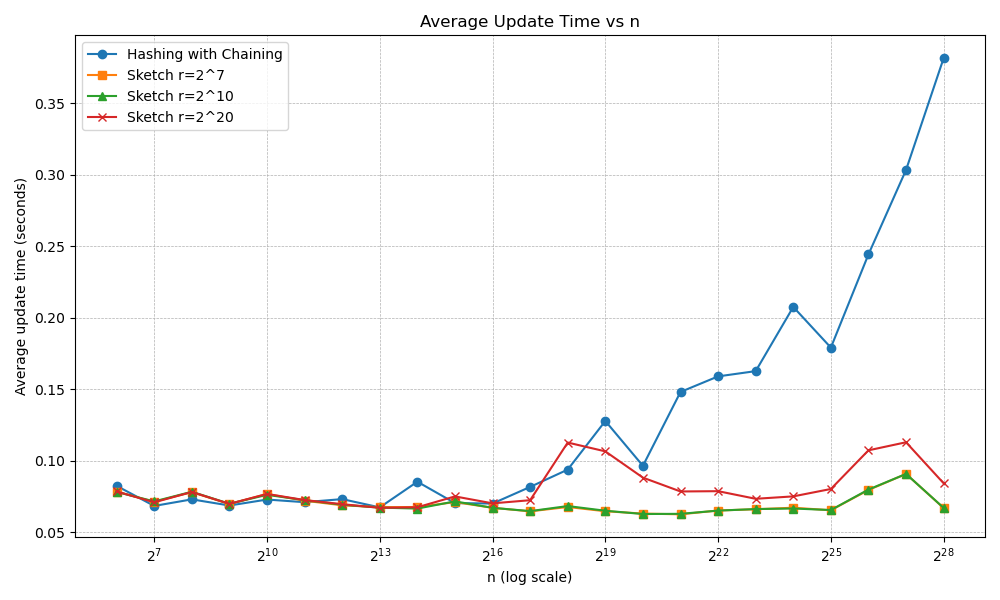
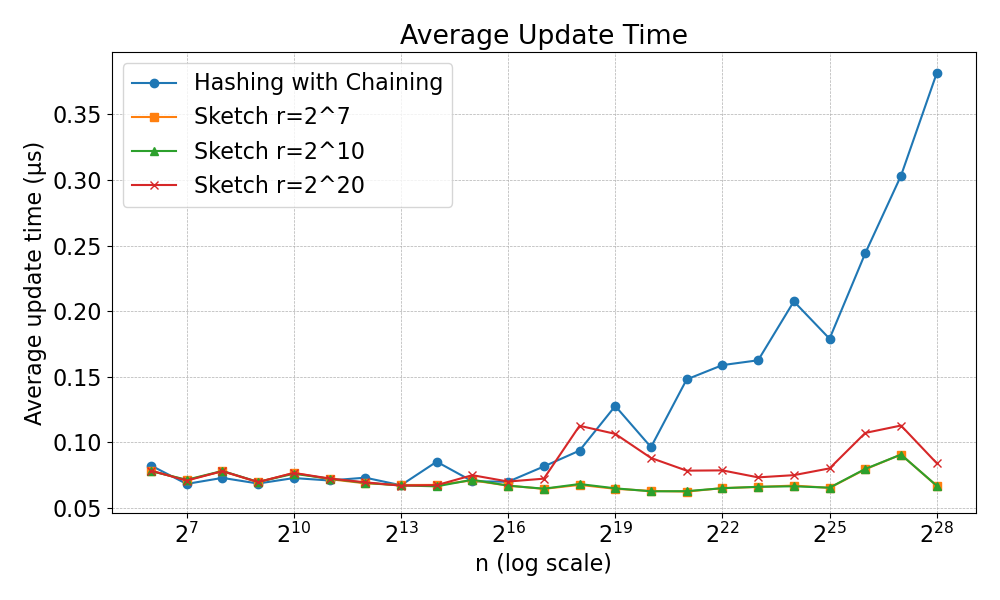
Fixed analysis and data.

diff --git a/analysis/ProjectTwo/analysis.py b/analysis/ProjectTwo/analysis.py
@@ -2,6 +2,7 @@ import pandas as pd
 import matplotlib.pyplot as plt
 import numpy as np
 
+plt.rcParams.update({'font.size': 16})
 
 #Exercise 7
 # Helper function to read and process data
@@ -26,16 +27,14 @@ plt.plot(sketch_1048576['n'], sketch_1048576['avg_time'], label='Sketch r=2^20',
 
 plt.xscale('log', base=2)
 plt.xlabel('n (log scale)')
-plt.ylabel('Average update time (seconds)')
-plt.title('Average Update Time vs n')
+plt.ylabel('Average update time (μs)')
+plt.title('Average Update Time')
 plt.legend()
 plt.grid(True, which='both', linestyle='--', linewidth=0.5)
 plt.tight_layout()
 plt.savefig('ex_7_timings')
 
-
-
-#Exercise 8+9:
+#Exercise 8:
 import pandas as pd
 import matplotlib.pyplot as plt
 
@@ -56,11 +55,11 @@ avg_error_by_r = data.groupby('r')['error'].mean().reset_index()
 plt.figure(figsize=(10, 6))
 plt.xscale('log', base=2)
 plt.plot(avg_error_by_r['r'], avg_error_by_r['error'], marker='o', linestyle='-')
-plt.title('Average Error as a Function of r')
+plt.title('Average Relative Error as Function of r')
 plt.xlabel('r')
-plt.ylabel('Average Error')
+plt.ylabel('Average Relative Error')
 plt.grid(True)
-plt.xticks(avg_error_by_r['r']) 
+plt.xticks(avg_error_by_r['r'], fontsize=18)  # Larger x-axis ticks
 plt.tight_layout()
 plt.savefig('ex_8_avg_error_plot')
 
@@ -71,11 +70,60 @@ max_error_by_r = data.groupby('r')['error'].max().reset_index()
 plt.figure(figsize=(10, 6))
 plt.xscale('log', base=2)
 plt.plot(max_error_by_r['r'], max_error_by_r['error'], marker='o', linestyle='-', color='red')
-plt.title('Maximum Error as a Function of r')
+plt.title('Maximum Relative Error as Function of r')
 plt.xlabel('r')
-plt.ylabel('Maximum Error')
+plt.ylabel('Maximum Relative Error')
+
 plt.grid(True)
-plt.xticks(max_error_by_r['r'])
+plt.xticks(max_error_by_r['r'], fontsize=18)
+plt.tight_layout()
+
+# Save the plot
+plt.savefig('ex_8_max_error_plot.png')
+
+
+#Exercise 9:
+import pandas as pd
+import matplotlib.pyplot as plt
+
+# Load data, explicitly setting the separator and skipping the header if needed
+data = pd.read_csv('ex9_relative_error_2wise.csv', sep=',', names=['r', 'error'], skiprows=1)
+
+# Convert r and error to numeric (in case any extra whitespace or parsing issues)
+data['r'] = pd.to_numeric(data['r'], errors='coerce')
+data['error'] = pd.to_numeric(data['error'], errors='coerce')
+
+# Drop any rows with NaN values (could happen if there are malformed lines)
+data = data.dropna()
+
+# Group by r and compute average error
+avg_error_by_r = data.groupby('r')['error'].mean().reset_index()
+
+# Plotting
+plt.figure(figsize=(10, 6))
+plt.xscale('log', base=2)
+plt.plot(avg_error_by_r['r'], avg_error_by_r['error'], marker='o', linestyle='-')
+plt.title('Average Relative Error as Function of r')
+plt.xlabel('r')
+plt.ylabel('Average Relative Error')
+plt.grid(True)
+plt.xticks(avg_error_by_r['r'], fontsize=18)  # Larger x-axis ticks
+plt.tight_layout()
+plt.savefig('ex_9_avg_error_plot')
+
+# Compute maximum error per r
+max_error_by_r = data.groupby('r')['error'].max().reset_index()
+
+# Plot
+plt.figure(figsize=(10, 6))
+plt.xscale('log', base=2)
+plt.plot(max_error_by_r['r'], max_error_by_r['error'], marker='o', linestyle='-', color='red')
+plt.title('Maximum Relative Error as Function of r')
+plt.xlabel('r')
+plt.ylabel('Maximum Relative Error')
+
+plt.grid(True)
+plt.xticks(max_error_by_r['r'], fontsize=18)
 plt.tight_layout()
 
 # Save the plot

diff --git a/experiments/ProjectTwo.cpp b/experiments/ProjectTwo.cpp
@@ -80,7 +80,7 @@ void ProjectTwo::run_exercise_7() {
     CSVWriter sketch_10_writer("./analysis/ProjectTwo/ex7_sketch_10.csv", "n,time");
     CSVWriter sketch_20_writer("./analysis/ProjectTwo/ex7_sketch_20.csv", "n,time");
 
-    for (int N = 26; N <= 28; ++N) {
+    for (int N = 6; N <= 28; ++N) {
         // 2^N
         const uint64_t n = 1ULL << N;
         auto multiply_shift_table = KeyValueHashingWithChaining(n, N);
